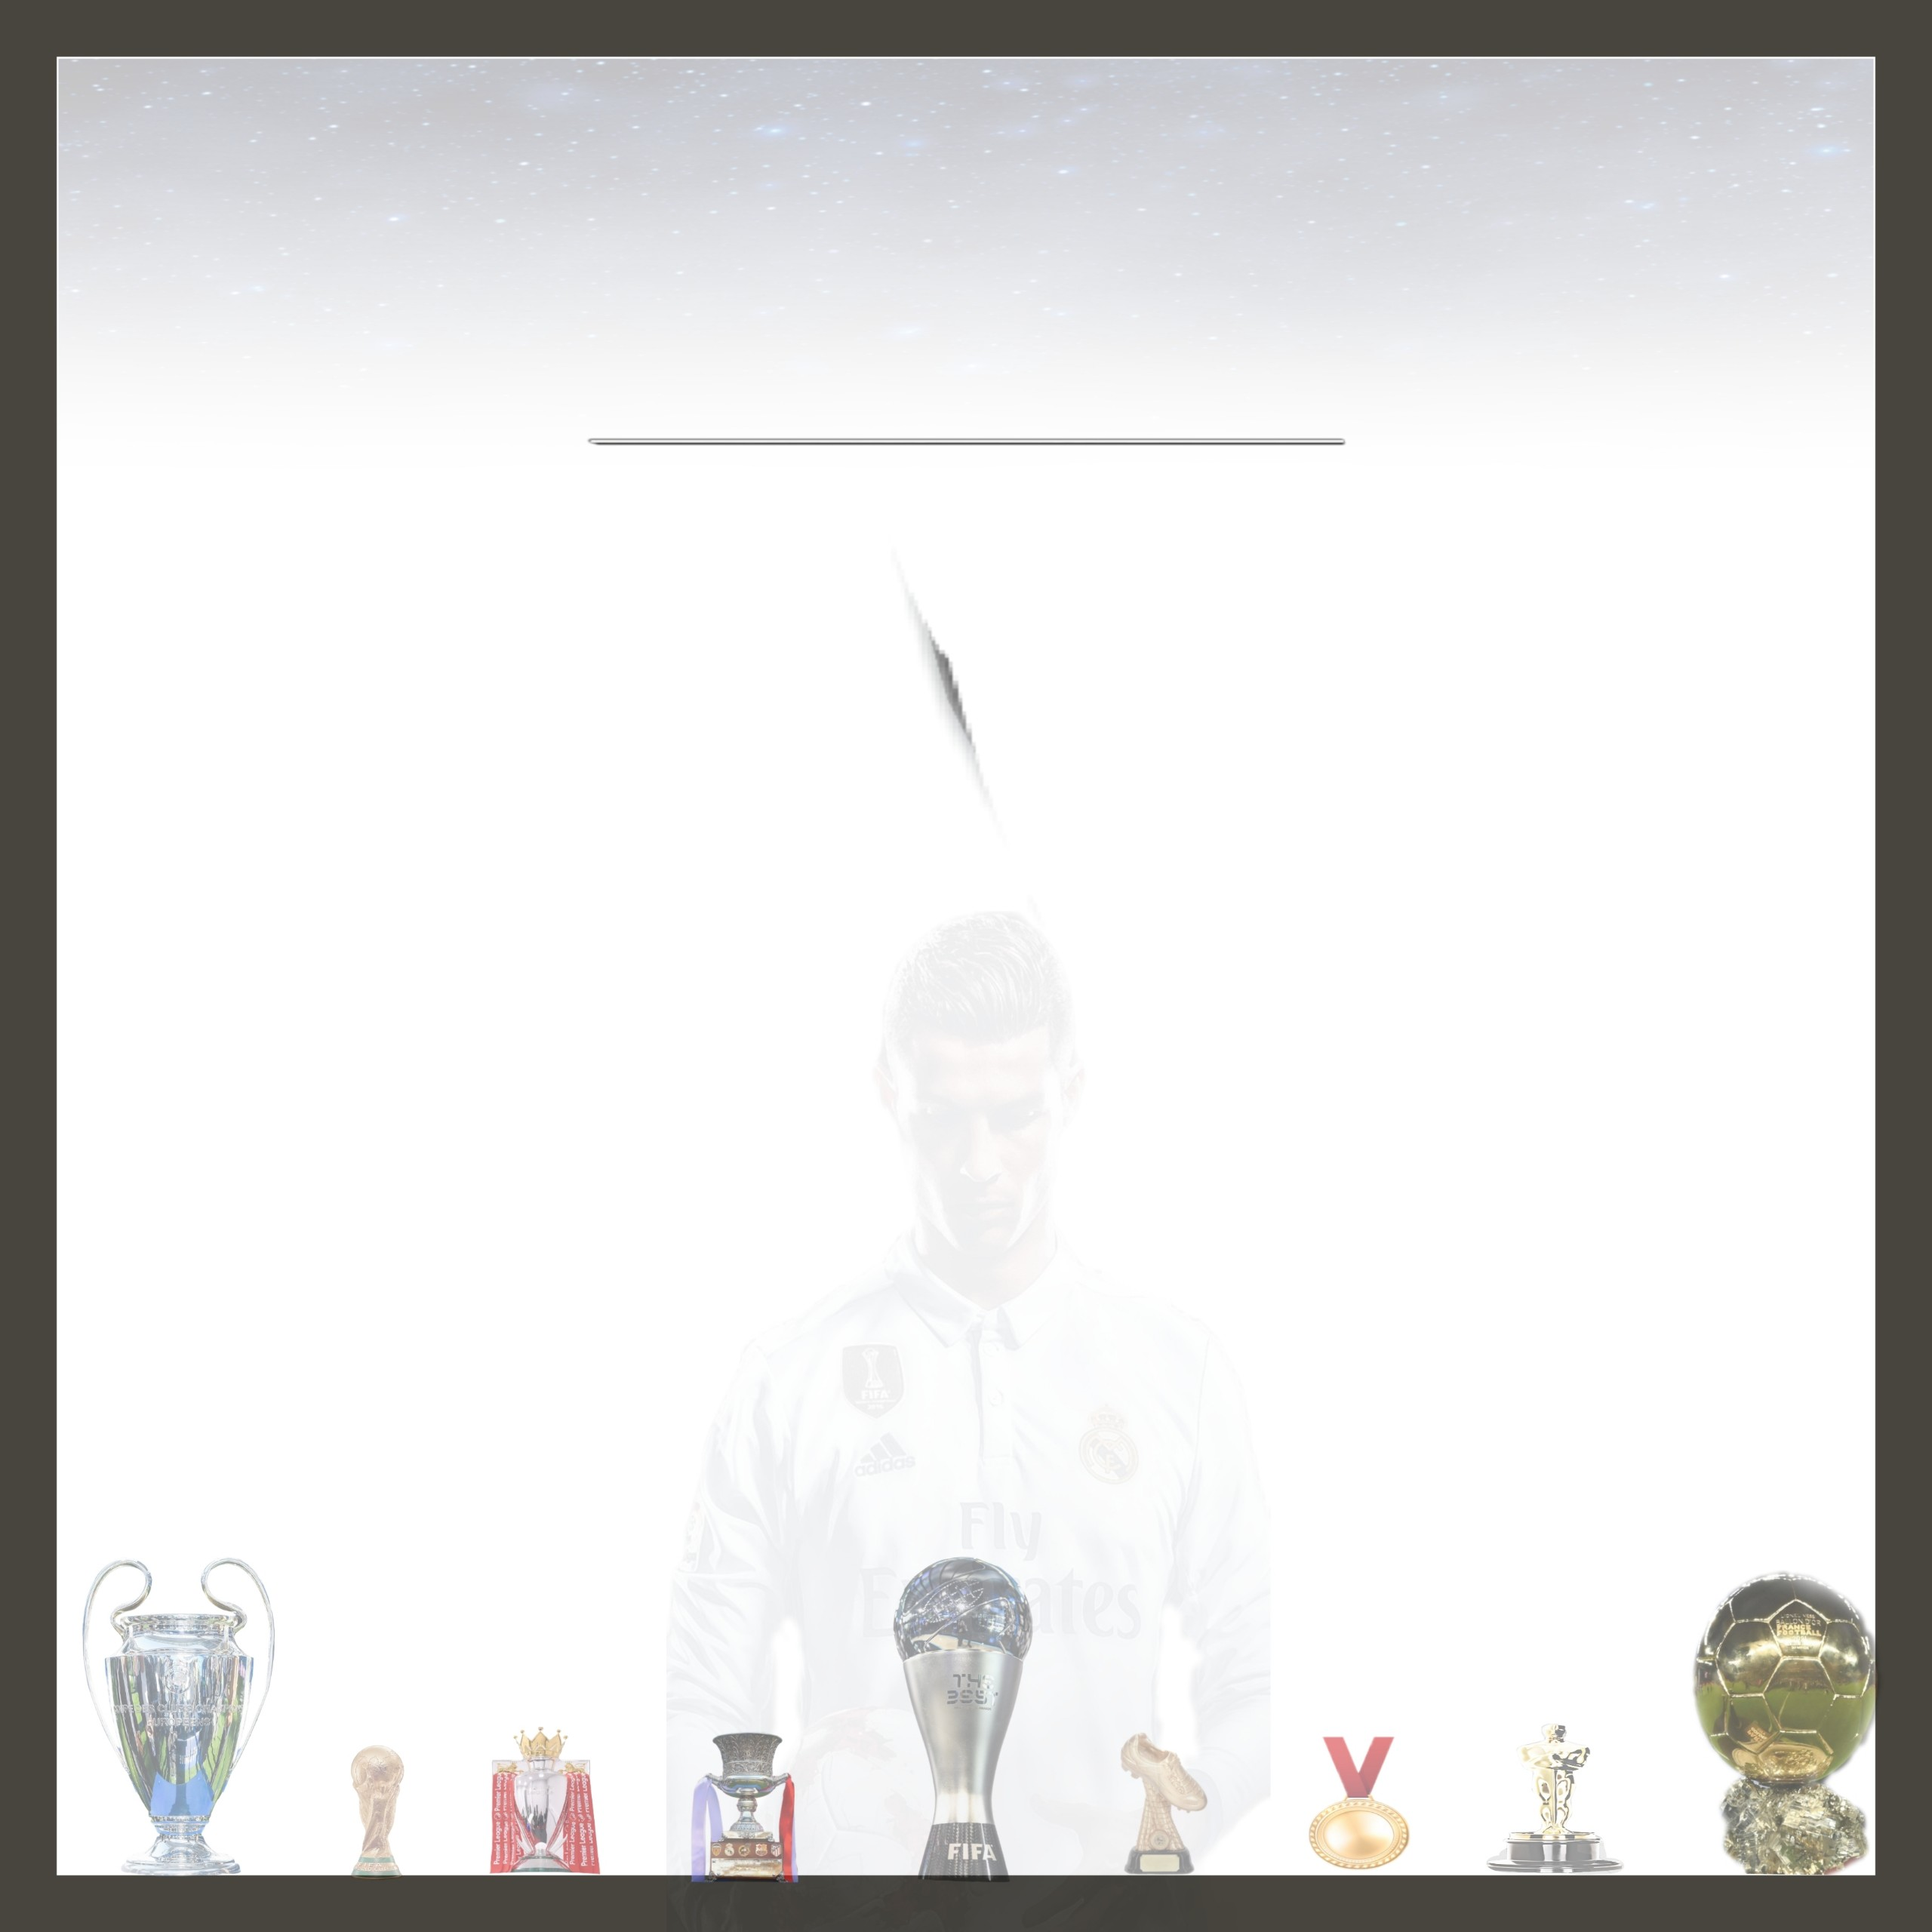
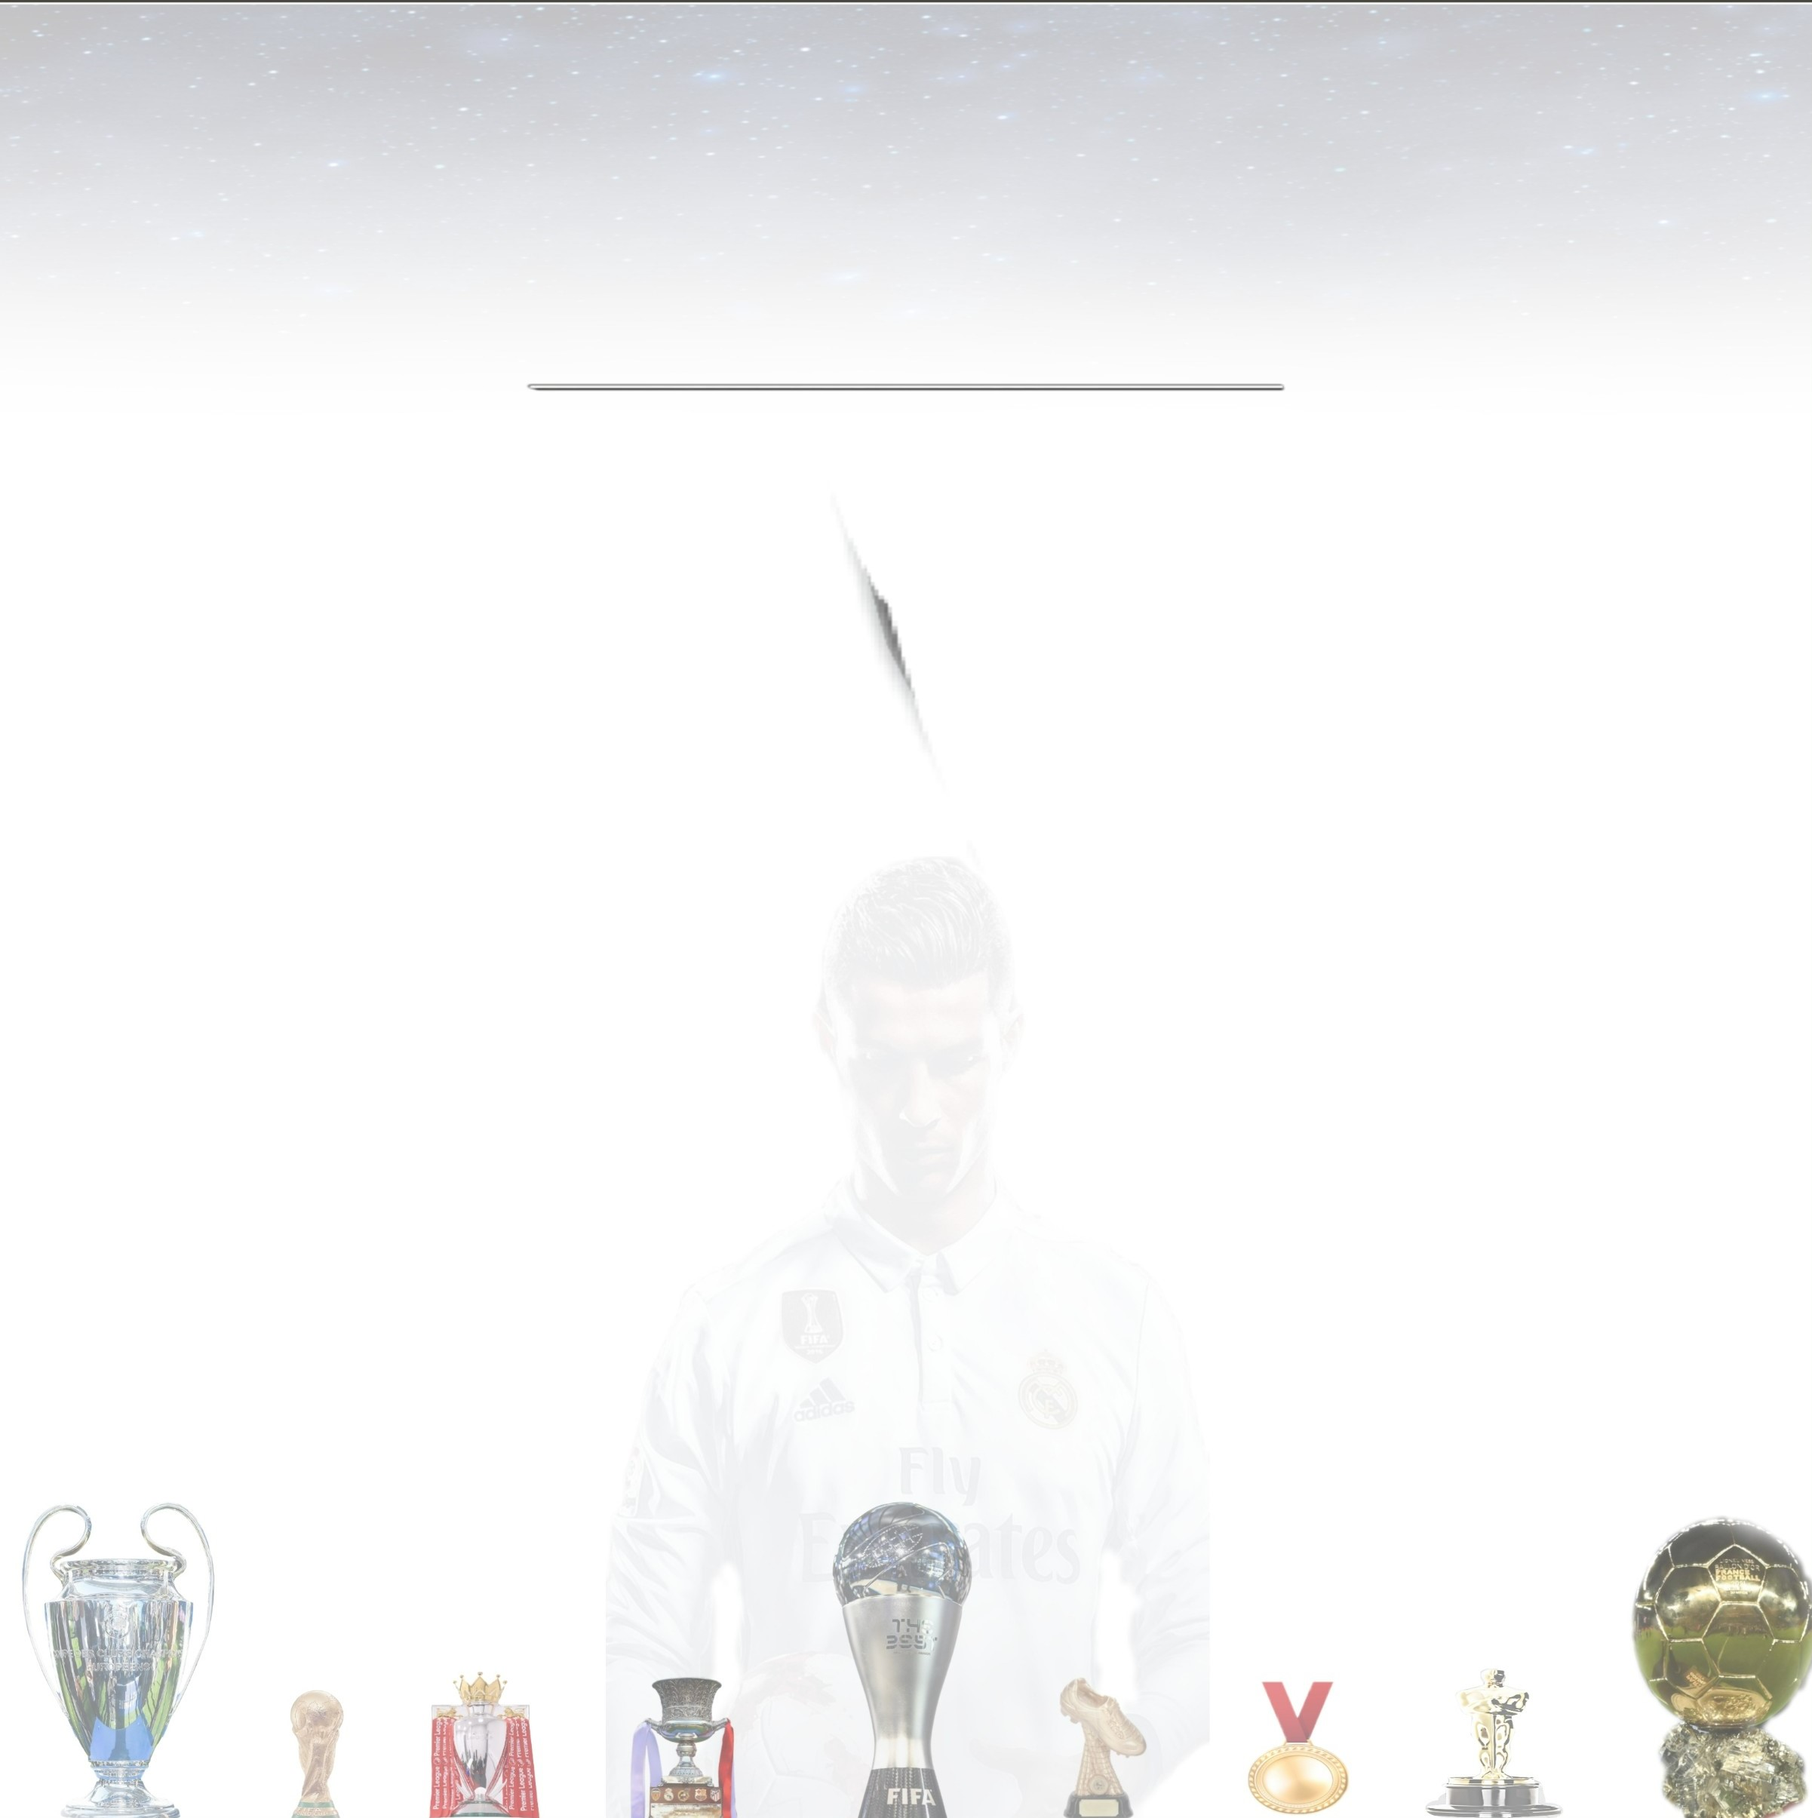
Career Done!

Changed region(s): [[0.0, 0.0, 1.0, 1.0], [0.3122, 0.1867, 0.6869, 0.249], [0.4684, 0.3112, 0.4996, 0.3734]]

diff --git a/assets/css/career.css b/assets/css/career.css
@@ -105,12 +105,13 @@
     height: 13px;
 }
 
+/* Career Moment */
 .career__moment{
     margin-top: 10px;
     background-color: white;
     width: 100%;
     height: 450px;
-    overflow: auto;
+    /* overflow: auto; */
     display: flex;
     justify-content: space-evenly;
     /* border-bottom: 1px solid #ccc; */
@@ -119,6 +120,7 @@
     font-family: 'Courier New', Courier, monospace;
 }
 
+/* Achivement */
 .career__moment .achivement{
     width: 35%;
     /* background-color: black; */
@@ -127,7 +129,9 @@
     overflow: auto;
     flex-direction: column;
     background-image: url('../img/career/background-achivement.jpg');
+    background-repeat: no-repeat;
     background-size: 100%;
+    border: 7px solid #3d3b3b;
 }
 
 .career__moment .achivement h3{
@@ -200,13 +204,34 @@
     flex-direction: column;
 }
 
+/* Moment image */
 .career__moment .moment{
     width: 35%;
     /* background-color: blue; */
     border: 1px solid #ccc;
-    overflow: auto;
+    /* overflow: auto; */
+    overflow-y: auto;
+    overflow-x: hidden;
+    text-align: center;
+    /* background-image: url('../img/career/background-achivement.jpg'); */
+    border: 7px solid #3d3b3b;
+    background-repeat: no-repeat;
+    background-size: 100%;
 }
 
+.career__moment .moment img{
+    width: 70%;
+    /* height: 70%; */
+    font-size: 100%;
+    margin-top: 20px;
+}
+
+.career__moment .moment p{
+    font-style: italic;
+}
+
+
+/* Video */
 .career__video{
     
     height: 500px;
@@ -270,24 +295,49 @@
     font-weight: bold;
 }
 
+.buy-btn:hover{
+    opacity: 0.7;
+}
+
 .club-shirt-home .shirt-image{
     background-image: url('../img/career/mu-home-0809.jpg');
+}
+
+.club-shirt-home .shirt-image:hover{
+    background-image: url('../img/career/mu-home-0809-back.jpg');
 }
 
 .club-shirt-away .shirt-image{
     background-image: url('../img/career/mu-away-0809.jpg');
 }
 
+.club-shirt-away .shirt-image:hover{
+    background-image: url('../img/career/mu-away-0809-back.jpg');
+}
+
 .club-shirt-third .shirt-image{
     background-image: url('../img/career/mu-third-0809.jpg');
+}
+
+.club-shirt-third .shirt-image:hover{
+    background-image: url('../img/career/mu-third-0809-back.jpg');
 }
 
 .nation-shirt-home .shirt-image{
     background-image: url('../img/career/por-home-08.jpg');
 }
 
+.nation-shirt-home .shirt-image:hover{
+    background-image: url('../img/career/por-home-08-back.jpg');
+}
+
 .nation-shirt-away .shirt-image{
     background-image: url('../img/career/por-away-08.jpg');
 }
+
+.nation-shirt-away .shirt-image:hover{
+    background-image: url('../img/career/por-away-08-back.jpg');
+}
+
 
 

diff --git a/career.html b/career.html
@@ -115,13 +115,22 @@
                         <h3><span class="icon goldenshoe"></span>European Golden Shoe</h3>
                         <h3><span class="icon goldmedal"></span>World Soccer Player of the Year</h3>
                         <h3><span class="icon goldmedal"></span>UEFA Team of the Year</h3>
-                        
                     </div>
                 </div>
             </div>
 
             <div class="moment">
-                
+                <img src="./assets/img/career/moment-ro0809-1.jpg" alt="">
+                <p>Cristiano Ronaldo 2008/09</p>
+
+                <img src="./assets/img/career/moment-ro0809-2.jpg" alt="">
+                <p>His first Champions League title</p>
+
+                <img src="./assets/img/career/moment-ro0809-3.jpg" alt="">
+                <p>Also his first Balon d'Or </p>
+
+                <img src="./assets/img/career/moment-ro0809-4.jpg" alt="">
+                <p>Cristiano Ronaldo 2008/09 </p>
             </div>
         </div>
 
